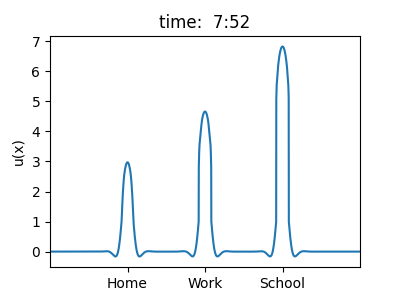
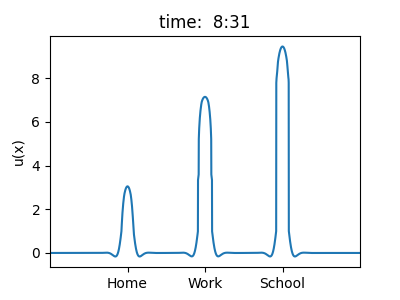
removed extra iterations

diff --git a/driving_routine_dnf.py b/driving_routine_dnf.py
@@ -63,7 +63,7 @@ initial_transform = carla.Transform(destinations['HOME'], carla.Rotation(yaw=90.
 kernel_pars = [1, 0.7, 0.9]
 
 # Field parameters
-x_lim = 100 # Limits for space, it is set as [-x_lim, x_lim].
+x_lim = 100  # Limits for space, it is set as [-x_lim, x_lim].
 dx, dt = 0.05, 0.05  # Spatial and temporal discretization.
 theta = 1  # Threshold for the activation function.
 
@@ -90,16 +90,16 @@ input_on = False
 # ----------------------------------------------------------------
 
 # Number of waypoints to add at the end of each route
-t1 = 50
-t2 = 30
-t3 = 70
+# = time to stay at each location
+t1 = 100
+t2 = 1000
+t3 = 300
 
 # Keep track of the previous waypoints
 previous_waypoints = []
 
 # So let's tell the world to spawn the vehicle.
 if desired_blueprint:
-
 
     # Call the function to spawn the vehicle
     vehicle = carla_helpers.spawn_vehicle_with_color(world, desired_blueprint, initial_transform)
@@ -118,7 +118,7 @@ if desired_blueprint:
     route = route_1 + route_2 + route_3
 
     # Draw the route on the map
-    carla_helpers.draw_route_on_map(world, route, life_time=100.0)
+    carla_helpers.draw_route_on_map(world, route, life_time=150.0)
 
     # Set the start time
     time_start = time.time()
@@ -144,7 +144,8 @@ if desired_blueprint:
         # Check if the vehicle has arrived at any of the destinations
         for destination_name, destination_location in destinations.items():
             if carla_helpers.check_arrival(waypoint[0].transform.location, destination_location):
-                print(f"You arrived at {destination_name}")
+                if (len(previous_waypoints) > 2) and waypoint != previous_waypoints[-1]:
+                    print(f"You arrived at {destination_name}")
                 # Set input_position based on the destination_name
                 input_position = input_positions.get(destination_name, 0)
                 input_on = True
@@ -187,45 +188,12 @@ if desired_blueprint:
         if len(previous_waypoints) > 4:
             previous_waypoints.pop(0)
 
-    # Additional iterations
-    extra_iterations = 200
-    for extra_iteration in range(extra_iterations):
-
-        # Additional code for extra iterations, if needed
-        # Calculate the elapsed time
-        elapsed_time = time.time() - time_start + day_onset
-
-        elapsed_time_minutes = elapsed_time
-
-        # Format elapsed time as HH:MM
-        elapsed_time_formatted = str(datetime.timedelta(minutes=elapsed_time_minutes))
-
-        # Update the field (modify this part according to your needs)
-        f = np.heaviside(u_field - theta, 1)
-        f_hat = np.fft.fft(f)
-        conv = dx * np.fft.ifftshift(np.real(np.fft.ifft(f_hat * w_hat)))
-        h_u = h_u + dt / tau_h * f  # threshold adaptation
-
-        if extra_iteration > 10:
-            input = 0  # Set input to 0 for extra iterations
-
-        u_field = u_field + dt * (-u_field + conv + input + h_u)
-
-        # Plot the field activity for each 10th iteration
-        if extra_iteration % 10 == 0:
-            plot_activity_at_time_step(u_field, field_pars, elapsed_time_formatted, fig=fig)
-            plt.clf()  # Clear the figure for the next time step
-
-        if extra_iteration == extra_iterations - 1:
-            # Save the figure on the last iteration
-            plot_activity_at_time_step(u_field, field_pars, elapsed_time_formatted, fig=fig)
-            fig.savefig('routine_memory.png')
-            plt.clf()
-
-        # Sleep for a short duration
-        time.sleep(0.001)
-
     time.sleep(5)
+
+    plot_activity_at_time_step(u_field, field_pars, elapsed_time_formatted, fig=fig)
+    fig.savefig('routine_memory.png')
+    plt.clf()
+
     # vehicle.destroy()
     print("Route completed.")
 
